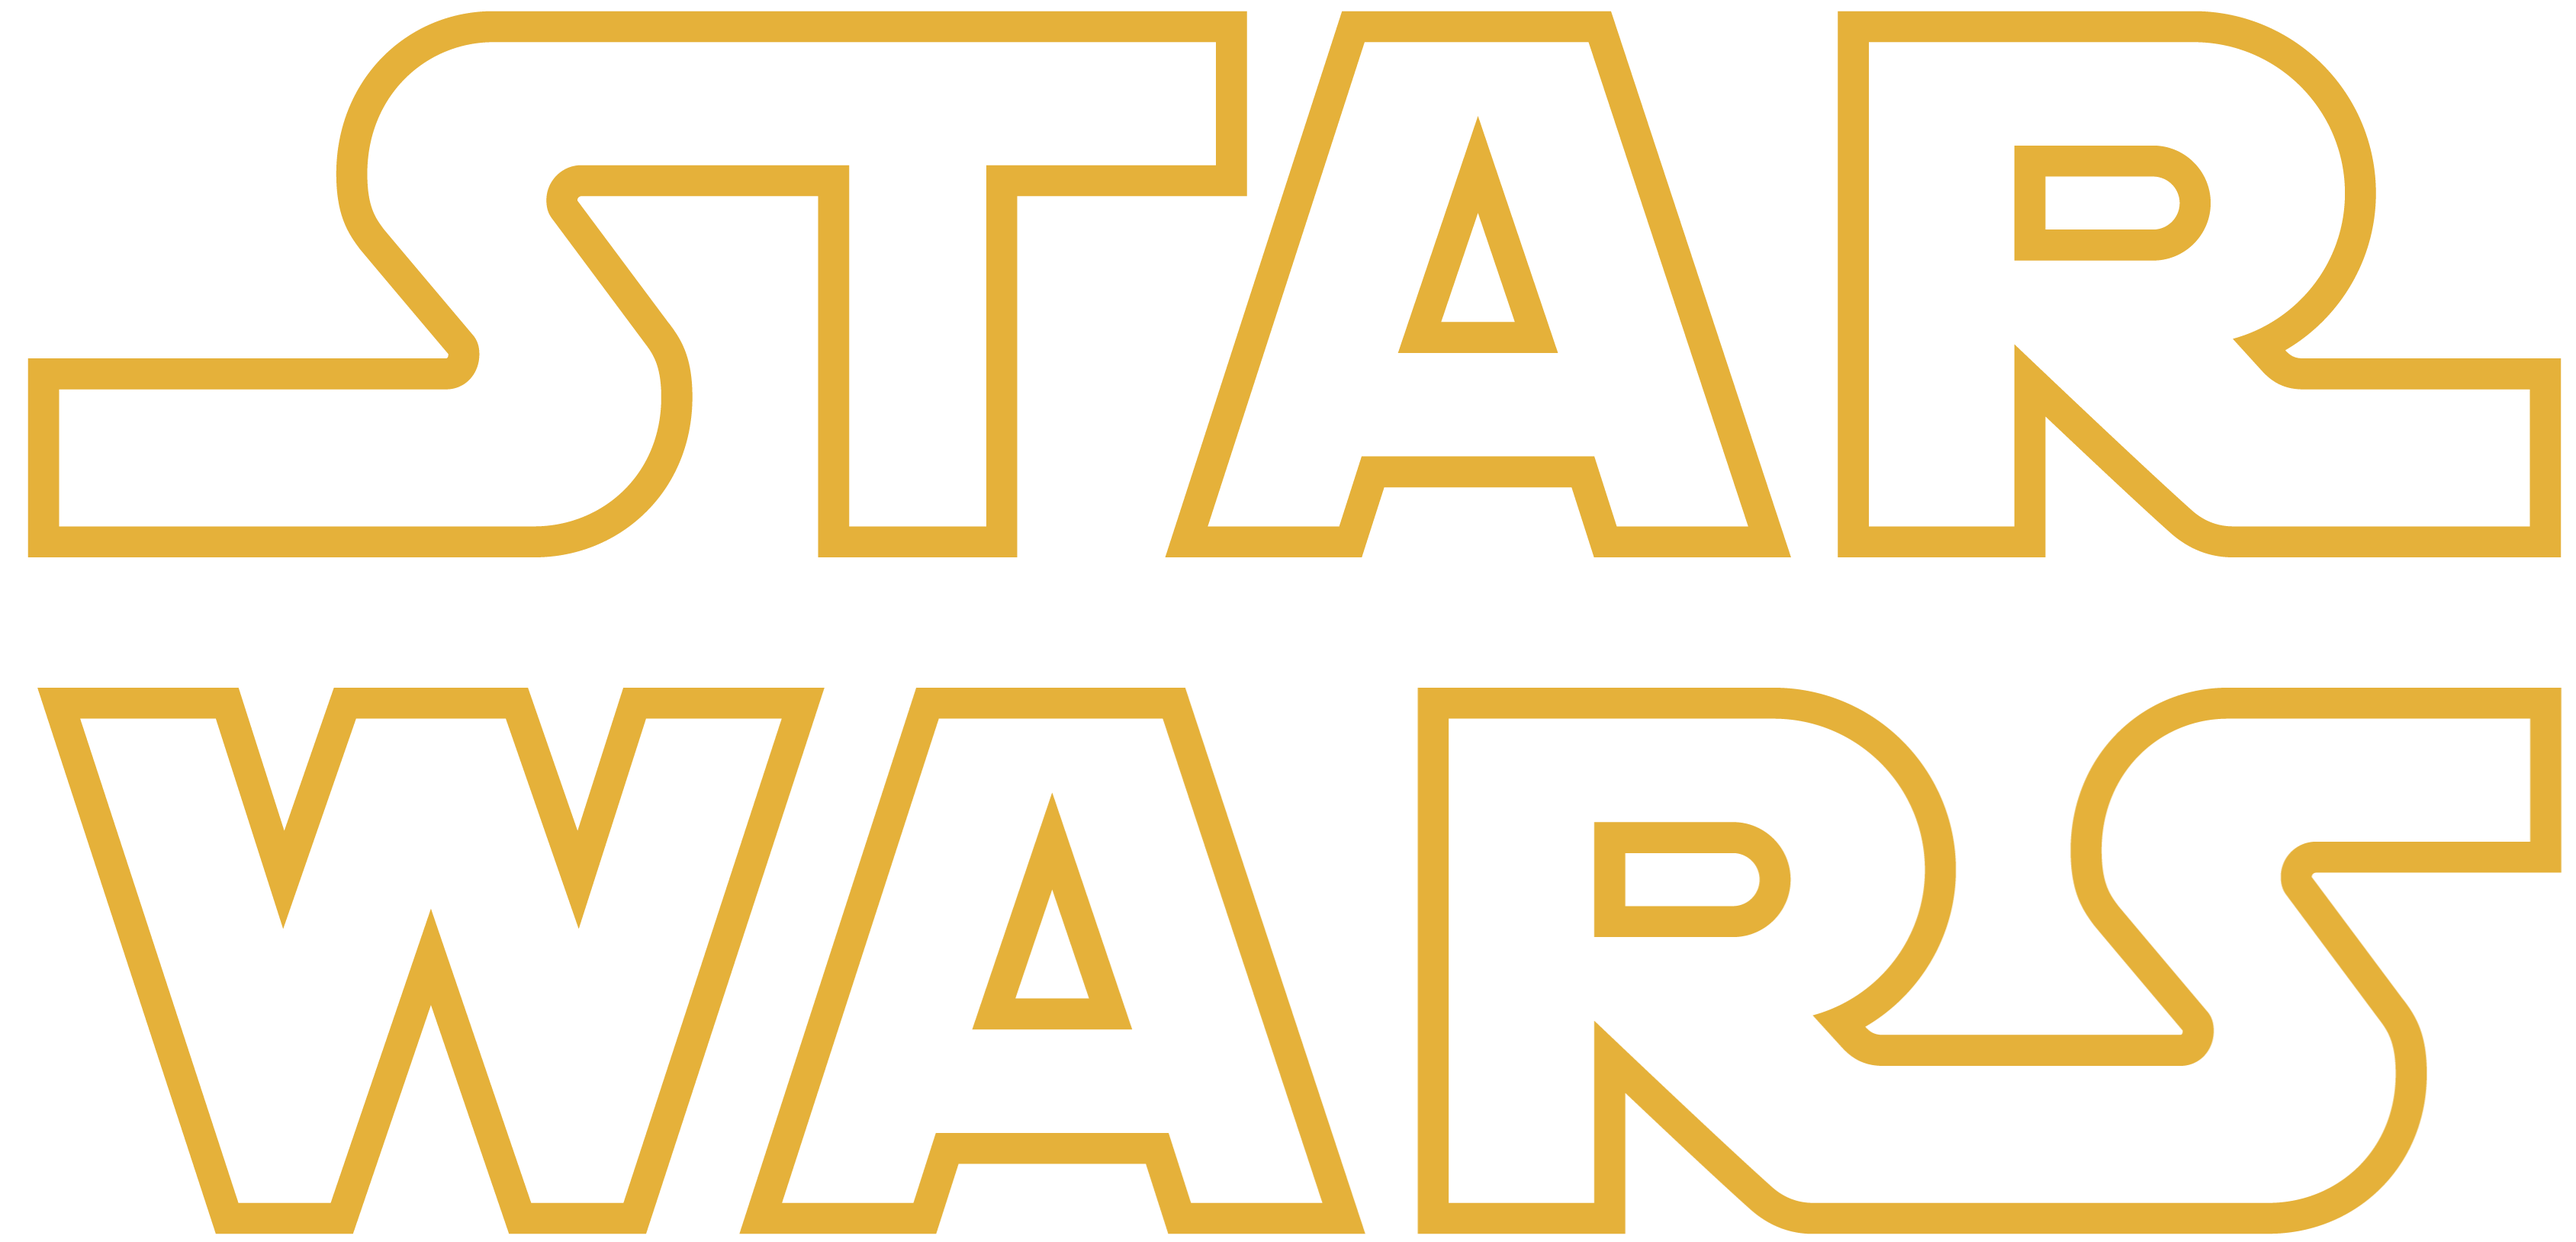
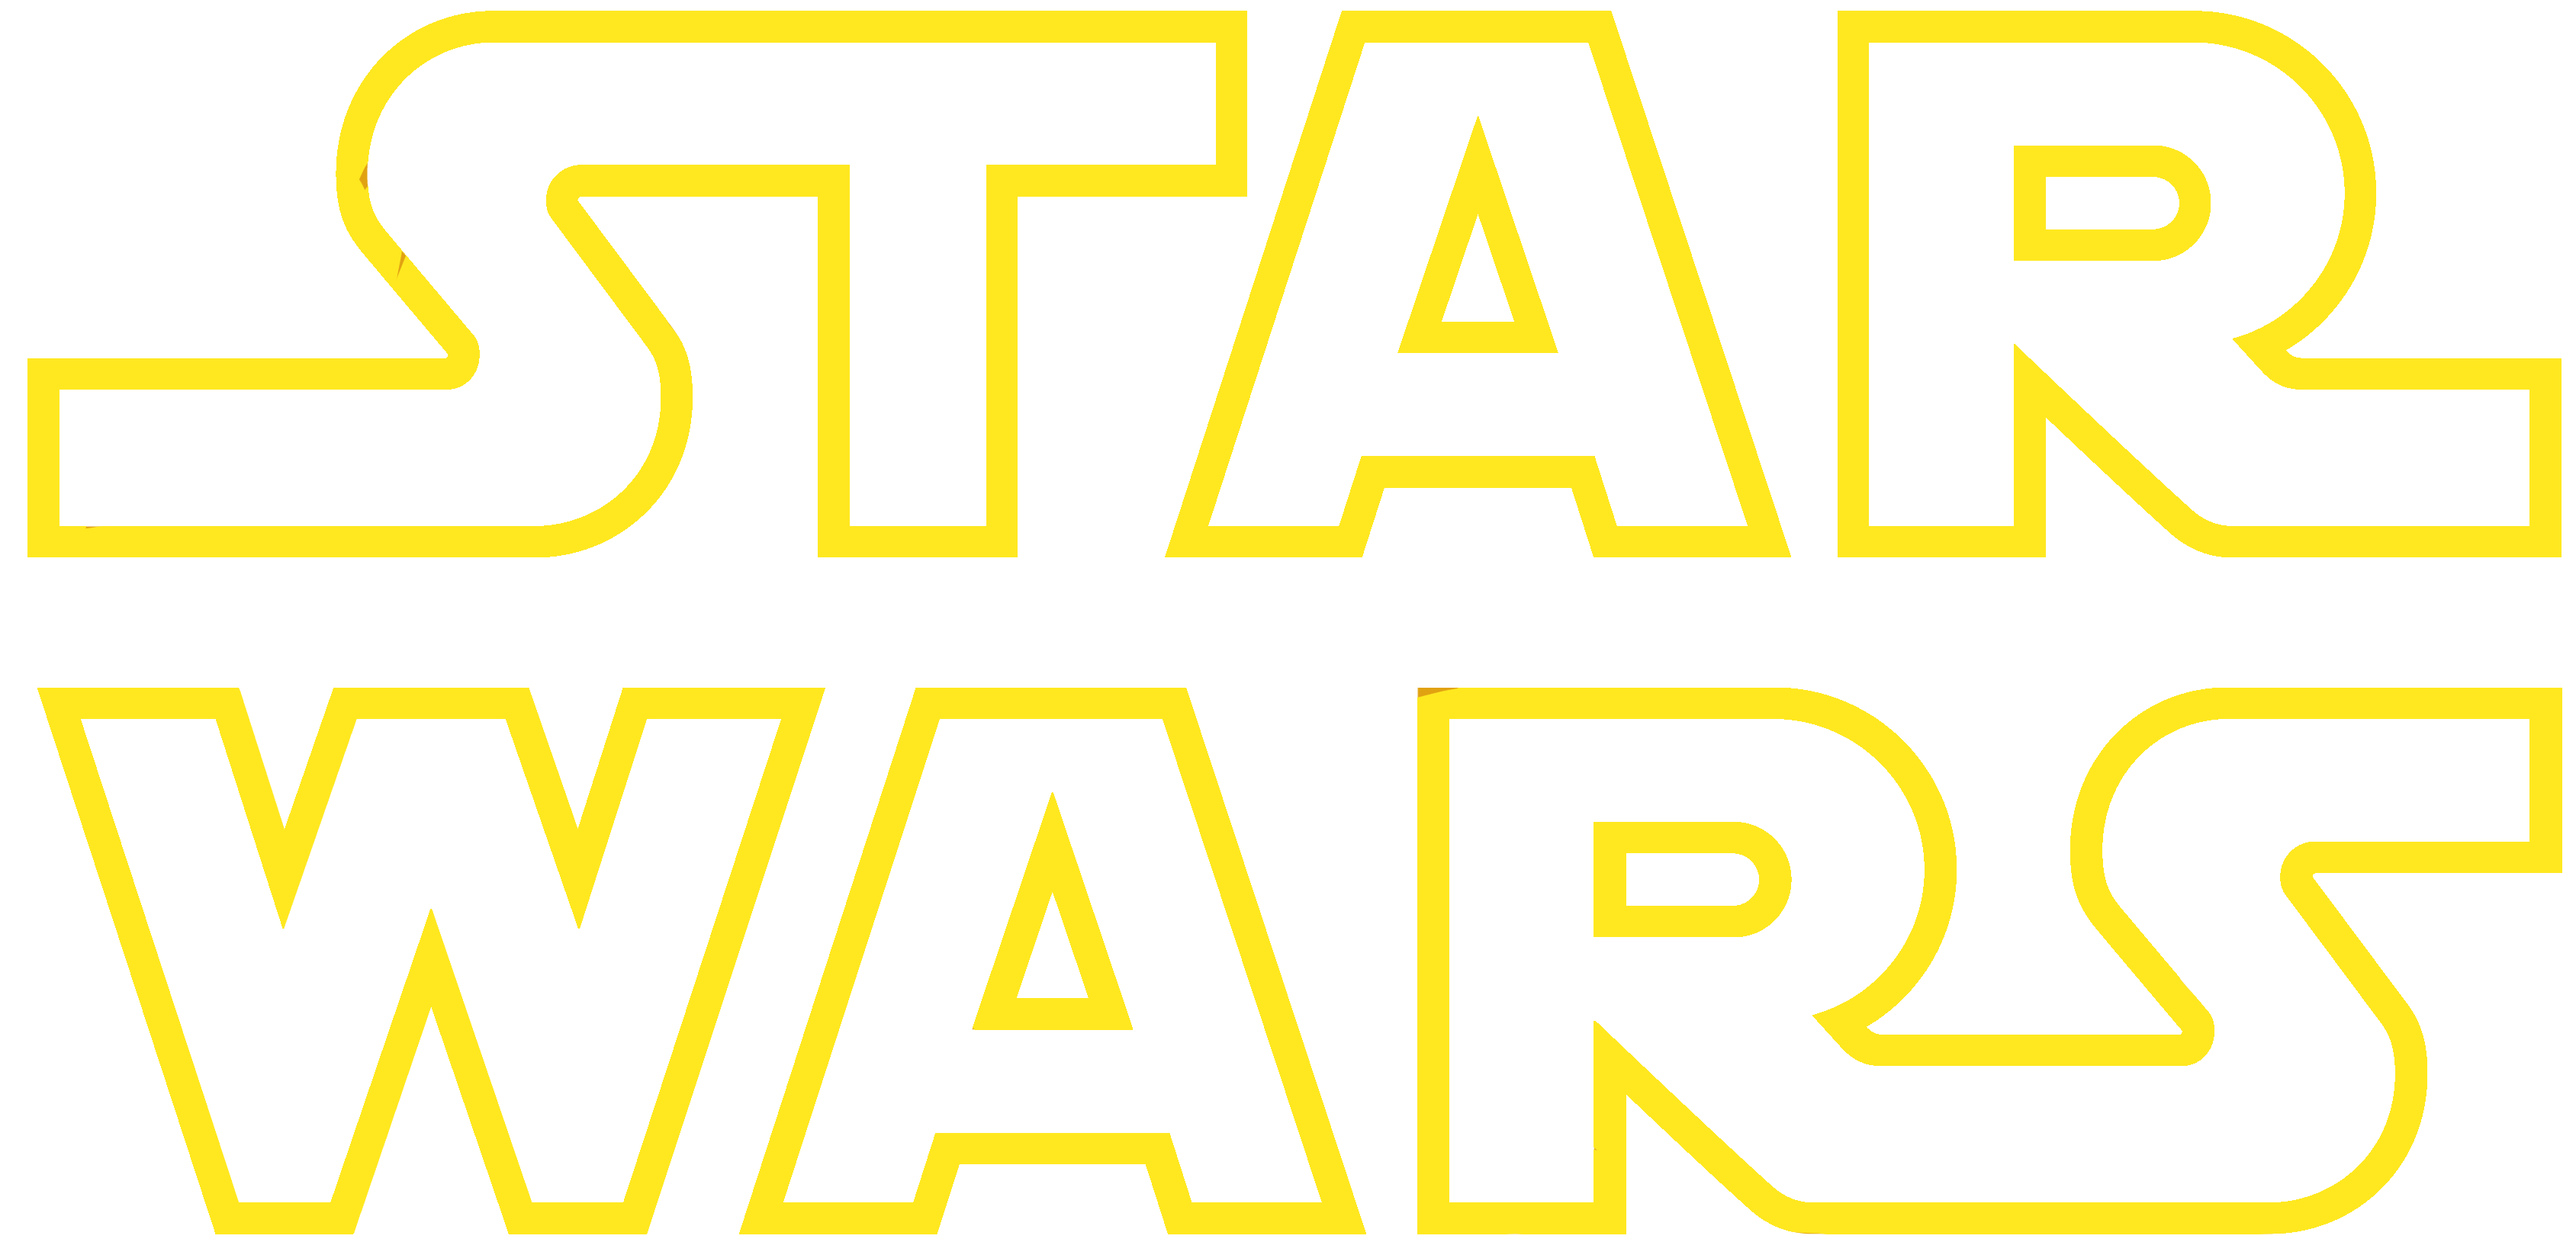
acomodando rutas

diff --git a/src/App.js b/src/App.js
@@ -1,6 +1,7 @@
 import "./App.css";
-import { useEffect, useState } from "react";
-import { BrowserRouter, Routes, Route } from "react-router-dom";
+import { Suspense, useEffect, useState } from "react";
+import { BrowserRouter, Link } from "react-router-dom";
+import { AppRouter } from "./Router";
 import {
   LightsaberActive,
   lightsaberHit,
@@ -18,7 +19,6 @@ import {
   CircleAnimation,
   StartWarning,
 } from "./components";
-import { Home } from "./views";
 
 function App() {
   const [startPage, setStartPage] = useState(true);
@@ -41,48 +41,50 @@ function App() {
   }, [hyperSpace]);
 
   return (
-    <div className="App">
-      {warning && <StartWarning setWarning={setWarning} />}
-      {hyperSpace && <HyperSpace />}
-      {circleClean && <CircleAnimation setCircleClean={setCircleCLean} />}
-      <BackgroundStar
-        hyper={hyperSpace}
-        setHyper={setHyperSpace}
-        mouse={mouse}
-        setMouse={setMouse}
-      />
-      {startPage && (
-        <StartButton
-          setStartPage={setStartPage}
+    <BrowserRouter basename="/starwars-blog">
+      <div className="App">
+        {warning && <StartWarning setWarning={setWarning} />}
+        {hyperSpace && <HyperSpace />}
+        {circleClean && <CircleAnimation setCircleClean={setCircleCLean} />}
+        <BackgroundStar
+          hyper={hyperSpace}
           setHyper={setHyperSpace}
+          mouse={mouse}
           setMouse={setMouse}
-          lSOn={LightsaberOn}
-          lSOff={LightsaberOff}
-          lSActive={LightsaberActive}
-          lSHit={lightsaberHit}
         />
-      )}
-      {!startPage &&
-        (setTimeout(() => {
-          setVisible(true);
-        }, 3000),
-        (
-          <>
-            <div className="nav-container">
-              <BackgroundMusic music={starwarsintro} />
-              <Title />
-              <FavButton />
-            </div>
-            <div className={`main-container ${visible ? "visible" : ""}`}>
-              <BrowserRouter basename="/starwars-blog">
-                <Routes>
-                  <Route path="/" element={<Home />} />
-                </Routes>
-              </BrowserRouter>
-            </div>
-          </>
-        ))}
-    </div>
+        {startPage && (
+          <Link to={"/home"}>
+            <StartButton
+              setStartPage={setStartPage}
+              setHyper={setHyperSpace}
+              setMouse={setMouse}
+              lSOn={LightsaberOn}
+              lSOff={LightsaberOff}
+              lSActive={LightsaberActive}
+              lSHit={lightsaberHit}
+            />
+          </Link>
+        )}
+        {!startPage &&
+          (setTimeout(() => {
+            setVisible(true);
+          }, 3000),
+          (
+            <>
+              <div className="nav-container">
+                <BackgroundMusic music={starwarsintro} />
+                <Title />
+                <FavButton />
+              </div>
+              <div className={`main-container ${visible ? "visible" : ""}`}>
+                <Suspense fallback={<div>Loading...</div>}>
+                  <AppRouter />
+                </Suspense>
+              </div>
+            </>
+          ))}
+      </div>
+    </BrowserRouter>
   );
 }
 

diff --git a/src/components/Title/Title.css b/src/components/Title/Title.css
@@ -1,6 +1,7 @@
 .title-container {
   display: flex;
   flex-direction: column;
+  gap: 10px;
   align-items: center;
   justify-content: center;
   opacity: 0;
@@ -17,18 +18,10 @@
   width: clamp(200px, 20vw, 600px);
 }
 
-.title-400 {
-  font-family: "jedi-outline";
-  font-size: clamp(4em, 6vw, 8em);
-  line-height: 1.1em;
-  color: #ffee58;
-}
-
 .subtitle {
   font-family: "jedi-subtitle";
   color: white;
   font-size: clamp(0.9em, 1.2vw, 1.6em);
   white-space: nowrap;
   letter-spacing: 0.7em;
-  margin-bottom: -1em;
 }

diff --git a/src/views/Home/Home.js b/src/views/Home/Home.js
@@ -1,11 +1,14 @@
 import "./Home.css";
 import { Card } from "../../components";
 import { characters, starships, planets } from "../../assets/images";
+import { Link } from "react-router-dom";
 
 export const Home = () => {
   return (
     <>
-      <Card cardSpan="characters" cardImg={characters} />
+      <Link to={"/characters"}>
+        <Card cardSpan="characters" cardImg={characters} />
+      </Link>
       <Card cardSpan="starships" cardImg={starships} />
       <Card cardSpan="planets" cardImg={planets} />
     </>

diff --git a/src/components/FavButton/FavButton.css b/src/components/FavButton/FavButton.css
@@ -2,8 +2,8 @@
   position: fixed;
   top: 10px;
   right: 25px;
-  color: #ffee58;
-  border: 1px solid #ffee58;
+  color: var(--primary-color);
+  border: 1px solid var(--primary-color);
   transition: 0.2s;
   font-family: "jedi-subtitle";
   font-size: clamp(12px, 1.1vw, 22px);
@@ -14,8 +14,7 @@
 }
 
 #btn-fav:hover {
-  background-color: #aa9b168e;
-  color: #fff495;
+  background-color: var(--primary-color-shadow);
 }
 
 #offcanvasScrolling {

diff --git a/src/components/BackgroundMusic/BackgroundMusic.css b/src/components/BackgroundMusic/BackgroundMusic.css
@@ -1,6 +1,6 @@
 .btn-music {
-  color: #ffee58;
-  border: 1px solid #ffee58;
+  color: var(--primary-color);
+  border: 1px solid var(--primary-color);
   transition: 0.2s;
   width: clamp(40px, 3.5vw, 80px); /* 40px; */
   height: clamp(40px, 3.5vw, 80px); /* 40px; */
@@ -8,6 +8,6 @@
 }
 
 .btn-music:hover {
-  background-color: #aa9b168e;
-  color: #fff495;
+  background-color: var(--primary-color-shadow);
+  color: var(--primary-color);
 }

diff --git a/src/components/Title/Title.js b/src/components/Title/Title.js
@@ -13,9 +13,8 @@ export const Title = () => {
 
   return (
     <div className={`title-container ${visible ? "visible" : ""}`}>
-      <img className="title-img" src={title} />
+      <img className="title-img" src={title} alt="star wars title" />
       <div className="subtitle">BLOG BY devMARCO</div>
-      {/* <div className="title-400">wars</div> */}
     </div>
   );
 };

diff --git a/src/components/Card/Card.css b/src/components/Card/Card.css
@@ -5,7 +5,7 @@
   width: 100%;
   overflow: hidden;
   border-radius: 1em;
-  box-shadow: 0 0 1.5em 0.1em #ffee58;
+  border: 1px solid var(--primary-color);
   opacity: 0.7;
   transition: 0.3s;
 }
@@ -14,6 +14,8 @@
   transform: scale(1.1);
   opacity: 1;
   cursor: pointer;
+  box-shadow: 0 0 1.5em 0.1em var(--primary-color);
+  border: none;
 }
 
 .card-container:active {

diff --git a/src/Router.js b/src/Router.js
@@ -1,0 +1,12 @@
+import { Routes, Route } from "react-router-dom";
+import { routes } from "./routerConfig";
+
+export const AppRouter = () => {
+  return (
+    <Routes>
+      {routes.map((route, index) => (
+        <Route key={index} path={route.path} element={route.element} />
+      ))}
+    </Routes>
+  );
+};

diff --git a/src/components/StartWarning/StartWarning.css b/src/components/StartWarning/StartWarning.css
@@ -60,8 +60,8 @@
 
 .start-warning-span {
   font-family: "jedi-outline";
-  color: #ffee58;
-  text-shadow: 0 0 5px #eff786;
+  color: var(--primary-color);
+  text-shadow: 0 0 10px var(--primary-color-shadow);
   font-size: 1.2em;
   transition: 0.2s;
 }

diff --git a/src/routerConfig.js b/src/routerConfig.js
@@ -1,0 +1,12 @@
+import { Characters, Home } from "./views";
+
+export const routes = [
+  {
+    path: "/home",
+    element: <Home />,
+  },
+  {
+    path: "/characters",
+    element: <Characters />,
+  },
+];

diff --git a/src/index.css b/src/index.css
@@ -1,5 +1,10 @@
 @import "./assets/fonts/fonts.css";
 
+:root {
+  --primary-color: #ffe820;
+  --primary-color-shadow: #958c0ede;
+}
+
 * {
   margin: 0;
   padding: 0;

diff --git a/src/views/index.js b/src/views/index.js
@@ -1,1 +1,4 @@
+import React from "react";
+
 export { Home } from "./Home/Home";
+export const Characters = React.lazy(() => import("./Characters/Characters"));
